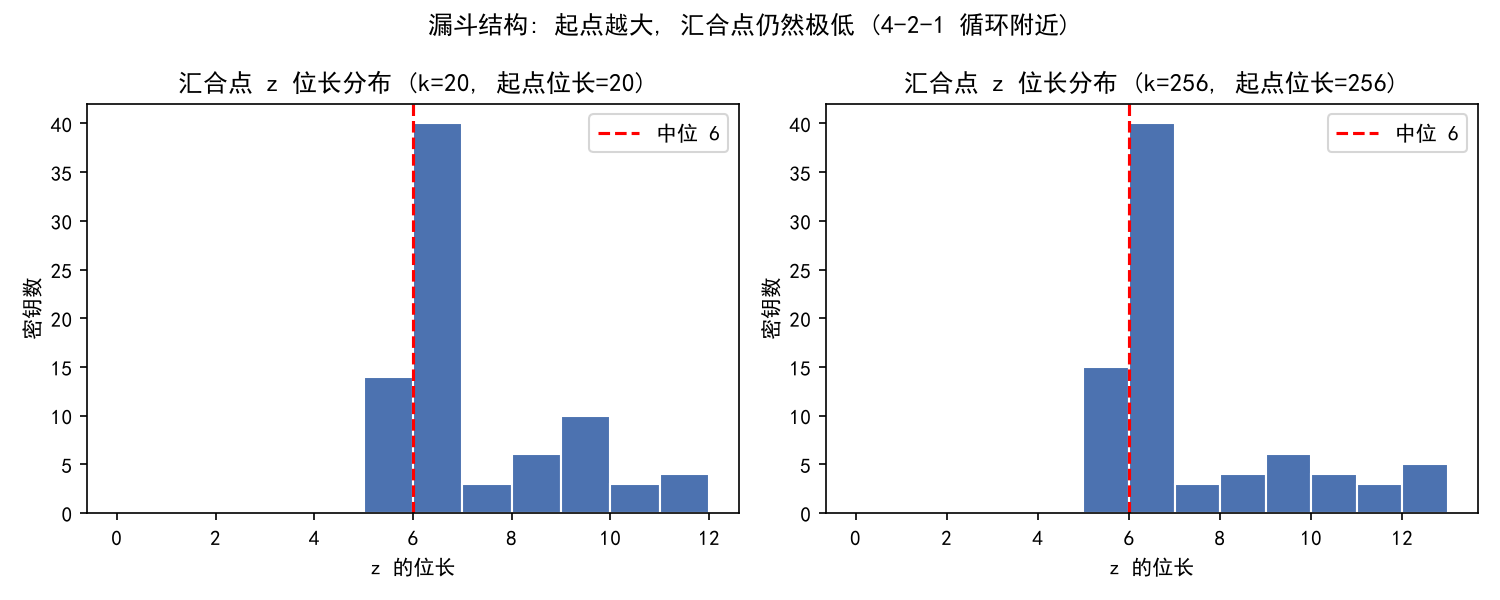
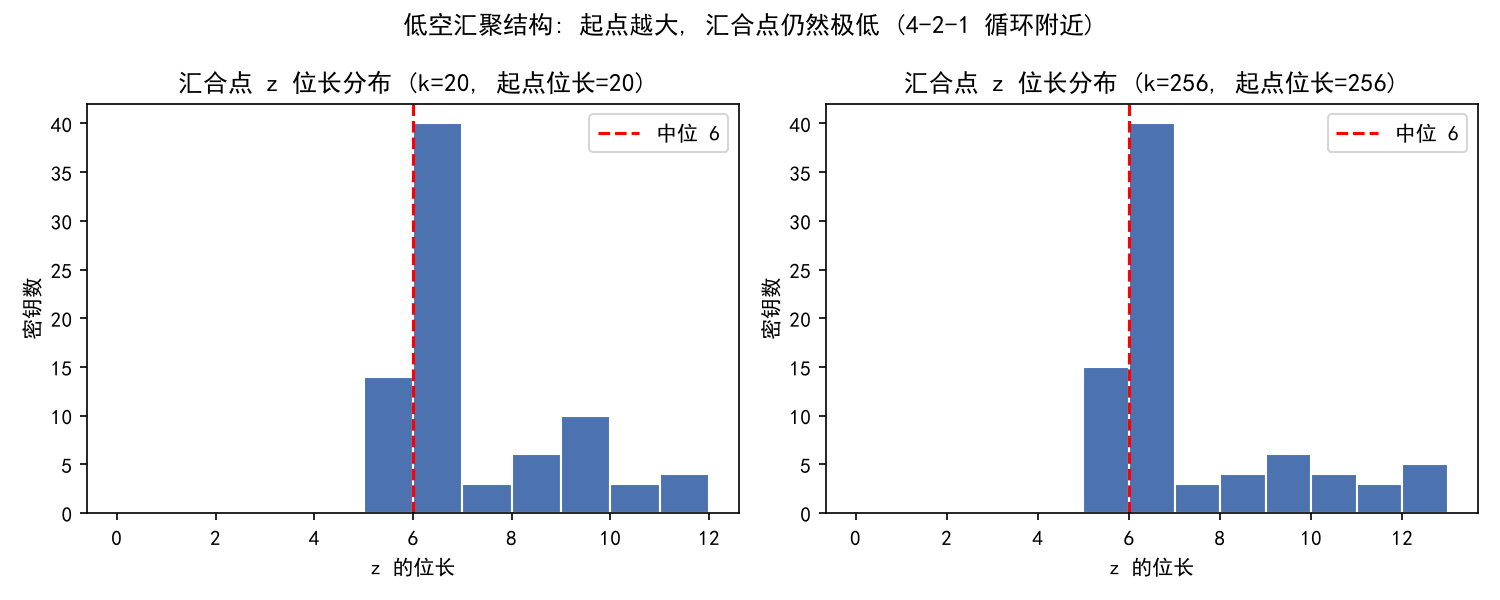
Sync appendix-listed scripts (round12, verify_n6), refresh fig1, add md5sums.txt, fix README counts

Changed region(s): [[0.2453, 0.0, 0.736, 0.06]]

diff --git a/attacks/round12_bitlen_cyclekill.py b/attacks/round12_bitlen_cyclekill.py
@@ -1,0 +1,104 @@
+# -*- coding: utf-8 -*-
+"""round12_bitlen_cyclekill.py — 验证端位长约束（P0）下的 cyclekill 变体实测。
+
+背景：定义 1 的验证范围说明指出，验证谓词默认不含起点位长约束；本脚本检验
+「若验证者额外强制 a', b' ∈ [2^{k-1}, 2^k)（位长谓词 P0），循环回绕攻击是否仍可行」。
+
+对每个 k ∈ {64,128,256,1024}，生成 20 个诚实实例（n = s0+t0 最短汇合总步数，m=|a0-b0|）；
+攻击者在 k 位区间重采样 a'（b'=a'+m，二者均为 k 位），按定理 cyclekill 的构造
+找 z*（S_z* ≡ n mod 3 且 S_z* ≤ n）、令 s'=τ_z*(a')，t'=τ_z*(b')+rem，逐条验证谓词：
+|a'-b'|=m, s'+t'=n, T^{s'}(a')=T^{t'}(b')。统计首样本命中率、重采样次数上界。
+
+输出同时写入 round12_out.txt。
+"""
+import io
+import random
+import sys
+import time
+
+CAP = 10 ** 7
+
+def tau_cycle(x):
+    """返回 {z: 首次到达 z 的步数}，z ∈ {1,2,4}（轨线进入循环后三个值均会达到）。"""
+    steps = {}
+    y, i = x, 0
+    while len(steps) < 3 and i <= CAP:
+        if y in (1, 2, 4) and y not in steps:
+            steps[y] = i
+        y = y // 2 if y % 2 == 0 else 3 * y + 1
+        i += 1
+    return steps
+
+def meeting(a, b):
+    """首次相遇：返回 (s, t, z)。"""
+    da = {}
+    y, i = a, 0
+    while y not in da:
+        da[y] = i
+        y = y // 2 if y % 2 == 0 else 3 * y + 1
+        i += 1
+        assert i <= CAP
+    y2, j = b, 0
+    while y2 not in da:
+        y2 = y2 // 2 if y2 % 2 == 0 else 3 * y2 + 1
+        j += 1
+        assert j <= CAP
+    return da[y2], j, y2
+
+def Tj(x, j):
+    for _ in range(j):
+        x = x // 2 if x % 2 == 0 else 3 * x + 1
+    return x
+
+buf = []
+def P(*args):
+    line = " ".join(str(a) for a in args)
+    print(line)
+    buf.append(line)
+
+t_start = time.time()
+P("round12_bitlen_cyclekill: k 位版本循环回绕（P0 位长约束下）")
+for k in (64, 128, 256, 1024):
+    random.seed(20261004 + k)
+    ok = 0
+    first_try = 0
+    samples_total = 0
+    max_tries = 0
+    for t in range(20):
+        a0 = random.randrange(2 ** (k - 1), 2 ** k)
+        b0 = random.randrange(2 ** (k - 1), 2 ** k)
+        m = abs(a0 - b0)
+        s0, t0, z0 = meeting(a0, b0)
+        n = s0 + t0
+        found = False
+        for att in range(1, 201):
+            ap = random.randrange(2 ** (k - 1), 2 ** k - m)
+            bp = ap + m
+            ta, tb = tau_cycle(ap), tau_cycle(bp)
+            cand = None
+            for z in (1, 2, 4):
+                if z in ta and z in tb:
+                    Sz = ta[z] + tb[z]
+                    if Sz <= n and (n - Sz) % 3 == 0:
+                        cand = z
+                        break
+            if cand is None:
+                continue
+            z = cand
+            rem = n - (ta[z] + tb[z])
+            sp, tp = ta[z], tb[z] + rem
+            assert rem >= 0 and rem % 3 == 0
+            if Tj(ap, sp) == z and Tj(bp, tp) == z and sp + tp == n and abs(ap - bp) == m:
+                found = True
+                samples_total += att
+                if att == 1:
+                    first_try += 1
+                max_tries = max(max_tries, att)
+                break
+        if found:
+            ok += 1
+    P("k=%4d: 攻破 %2d/20 | 首样本命中 %2d/20 | 平均采样 %.1f 次 | 最大采样 %d 次"
+      % (k, ok, first_try, samples_total / 20.0, max_tries))
+P("总耗时 %.1f s（确定性种子；每次采样 = 两个 k 位轨线模拟）" % (time.time() - t_start))
+io.open(r"D:/projects/Hermes_Test/collatz_crypto/attacks/round12_out.txt", "w",
+        encoding="utf-8", newline="\n").write("\n".join(buf) + "\n")

diff --git a/attacks/verify_n6_margin.py b/attacks/verify_n6_margin.py
@@ -1,0 +1,70 @@
+# -*- coding: utf-8 -*-
+r"""verify_n6_margin.py — §4.3 实例的 τ(b')≤n−6 充分条件余量核验
+复现 round2_noz_cyclekill.py 的 8 个实例（同种子 20260907），
+对每个实例输出：n、τ(b')（b'=1+m 进入 {1,4,2} 的首达时间）与余量 (n−6)−τ(b')。
+"""
+import random
+import sys
+
+try:
+    sys.stdout.reconfigure(encoding="utf-8", errors="replace")
+except Exception:
+    pass
+
+random.seed(20260907)
+
+
+def T(x):
+    return x // 2 if x % 2 == 0 else 3 * x + 1
+
+
+def first_meeting(a, b, max_steps):
+    va = {a: 0}
+    vb = {b: 0}
+    ca, cb = a, b
+    for total in range(1, max_steps + 1):
+        ca = T(ca)
+        if ca in vb:
+            return (total, vb[ca], ca)
+        va[ca] = total
+        cb = T(cb)
+        if cb in va:
+            return (va[cb], total, cb)
+        vb[cb] = total
+    return None
+
+
+def keygen_nodelay(k, max_steps=20000):
+    while True:
+        a = random.randint(1 << (k - 1), (1 << k) - 1)
+        b = random.randint(1 << (k - 1), (1 << k) - 1)
+        if a == b:
+            continue
+        r = first_meeting(a, b, max_steps)
+        if r:
+            s, t, z = r
+            return a, b, s + t, z
+
+
+def tau_first_cycle(x, limit=200000):
+    d = 0
+    while x not in (1, 2, 4) and d < limit:
+        x = T(x)
+        d += 1
+    return d if x in (1, 2, 4) else None
+
+
+print("k |  trial | n | tau(b') | 余量 (n-6)-tau")
+worst = None
+for k in (128, 256):
+    for trial in range(4):
+        a0, b0, n, z0 = keygen_nodelay(k)
+        m = abs(a0 - b0)
+        bp = 1 + m
+        tb = tau_first_cycle(bp)
+        margin = (n - 6) - tb
+        print("%3d | %5d | %5d | %7d | %d" % (k, trial, n, tb, margin))
+        if worst is None or margin < worst:
+            worst = margin
+print()
+print("最小余量：", worst, "（正数即满足 τ(b') <= n-6）")

diff --git a/README.md b/README.md
@@ -2,22 +2,25 @@
 
 Reproducibility package for the manuscript *"Structural Exclusion of Trajectory-Confluence Collatz Signatures within a Defined Design Space"*（《Collatz 轨线汇合型签名在限定设计空间内的结构性排除：三个屏障、一项熵审计与一类设计空间的边界》，投稿中）。
 
-本仓库与论文附录 A 的清单一一对应：**36 个实验与分析脚本、4 张图及其生成脚本、实验输出数据**。脚本与论文小节/附录的对应关系、预期输出与运行时间，见论文附录 A 的逐项列表。
+本仓库与论文附录 A 的清单一一对应：**38 个实验与分析脚本、4 张图及其生成脚本、实验输出数据**。脚本与论文小节/附录的对应关系、预期输出与运行时间，见论文附录 A 的逐项列表。全部文件的 MD5 校验和见 `md5sums.txt`。
 
 ## 目录结构
 
 ```
-attacks/                攻击实验（28 个脚本；论文 §3--§7 与附录 B）
+attacks/                攻击实验（30 个脚本；论文正文与附录）
 ├── round1--round9*     逐轮攻击实验（确定性种子，可完全复现）
 ├── round10_meeting_bound.py        相遇高度界校准网格（输出 round10_out.txt）
 ├── analyze_round10.py              由 round10_out.txt 复算校准常数（依赖 round10 输出）
 ├── round11_audit_owf.py / _pow.py / _prng.py   三方案最小复现审计（附录 B）
-└── round9_out.txt / round9b_out.txt / round9c_out.txt / round10_out.txt   代表性实验输出
+├── round12_bitlen_cyclekill.py    位长约束下 k 位重采样回绕（输出 round12_out.txt）
+├── verify_n6_margin.py            定理 1 条件余量核验（输出 verify_n6_margin_out.txt）
+└── round9_out.txt / round9b_out.txt / round9c_out.txt / round10_out.txt /
+    round12_out.txt / verify_n6_margin_out.txt                              代表性实验输出
 
-paper/                  熵估计与图表（7 个脚本 + 数据；论文 §5、§9 与附录 A）
+paper/                  熵估计与图表（8 个脚本 + 数据；论文正文与附录）
 ├── estimate_min_entropy.py          初测：k=64/128/256 熵点
 ├── estimate_min_entropy_large.py    初测：k=512/1024 熵点
-├── entropy_replication.py           表 3 主口径复测（每 k 20 次重复 × N=10,000）
+├── entropy_replication.py           表 1 主口径复测（每 k 20 次重复 × N=10,000）
 ├── check_m_distribution.py          固定 m 对照实验（KS 与量化 TV 输出）
 ├── verify_rem_condition.py          模 3 覆盖引理与 S_min 条件数值核查
 ├── audit_nonmeasured.py             非实测项审计（半压缩步数、窗口频率）
